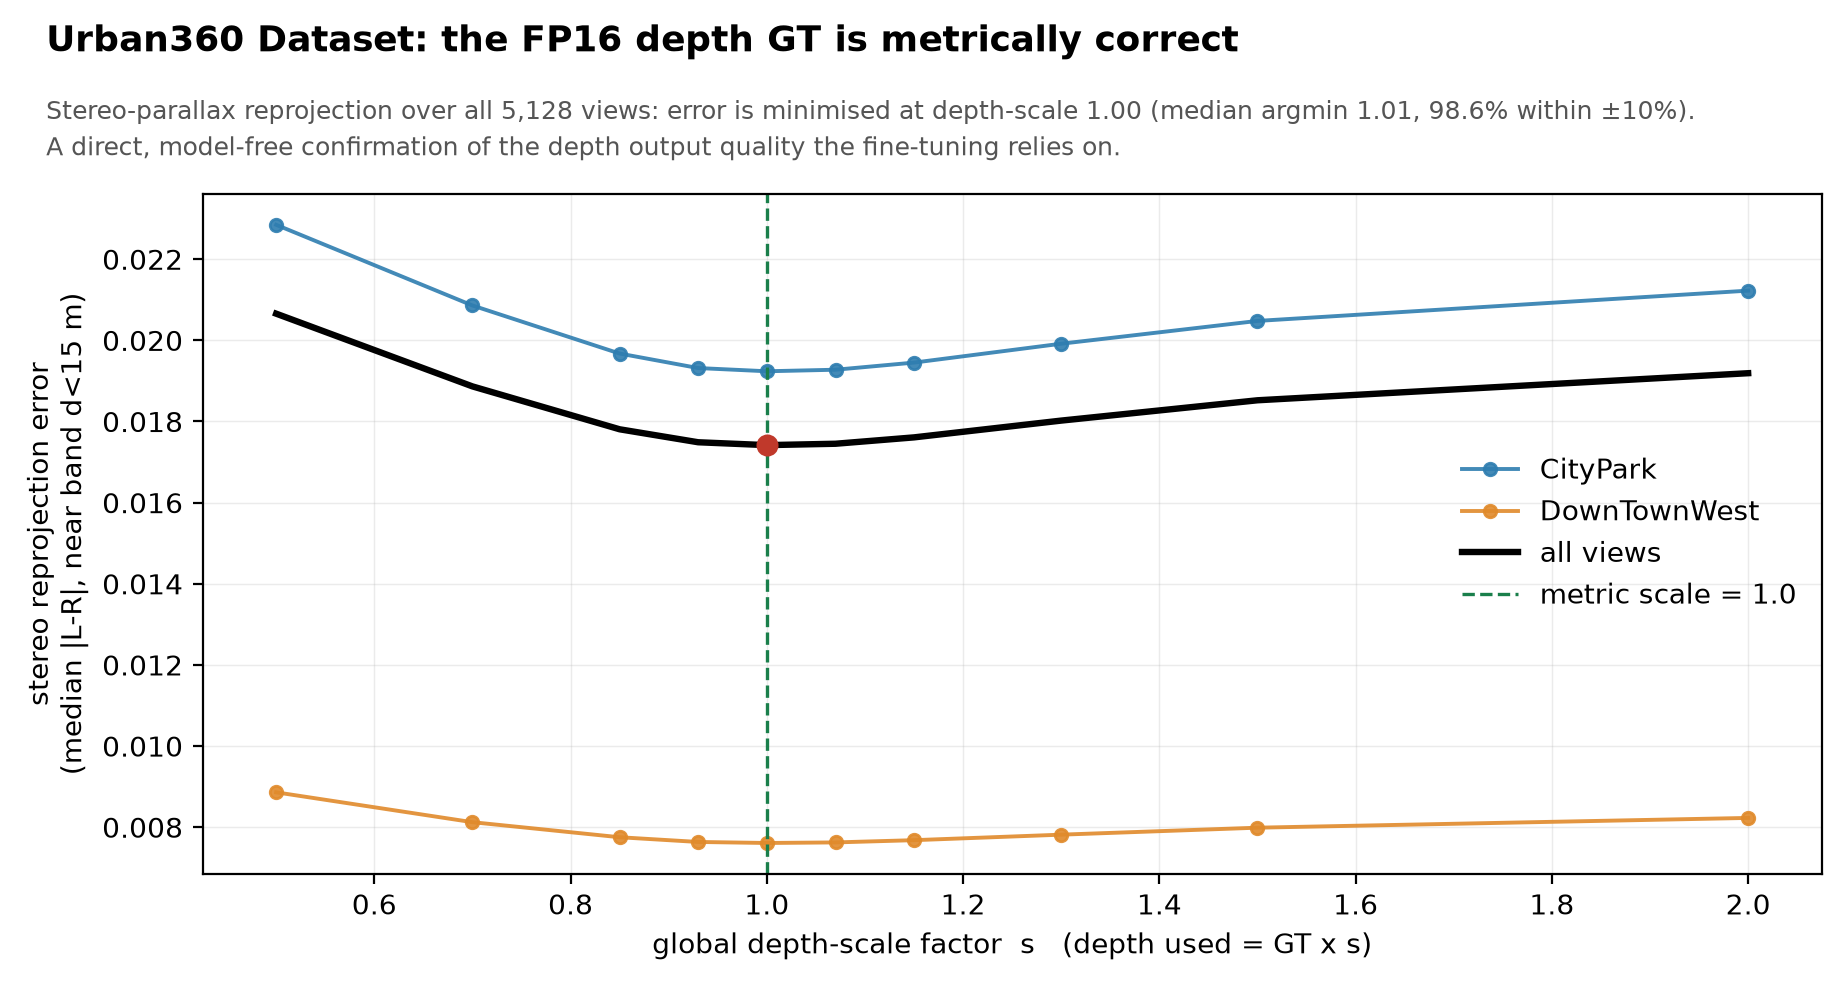
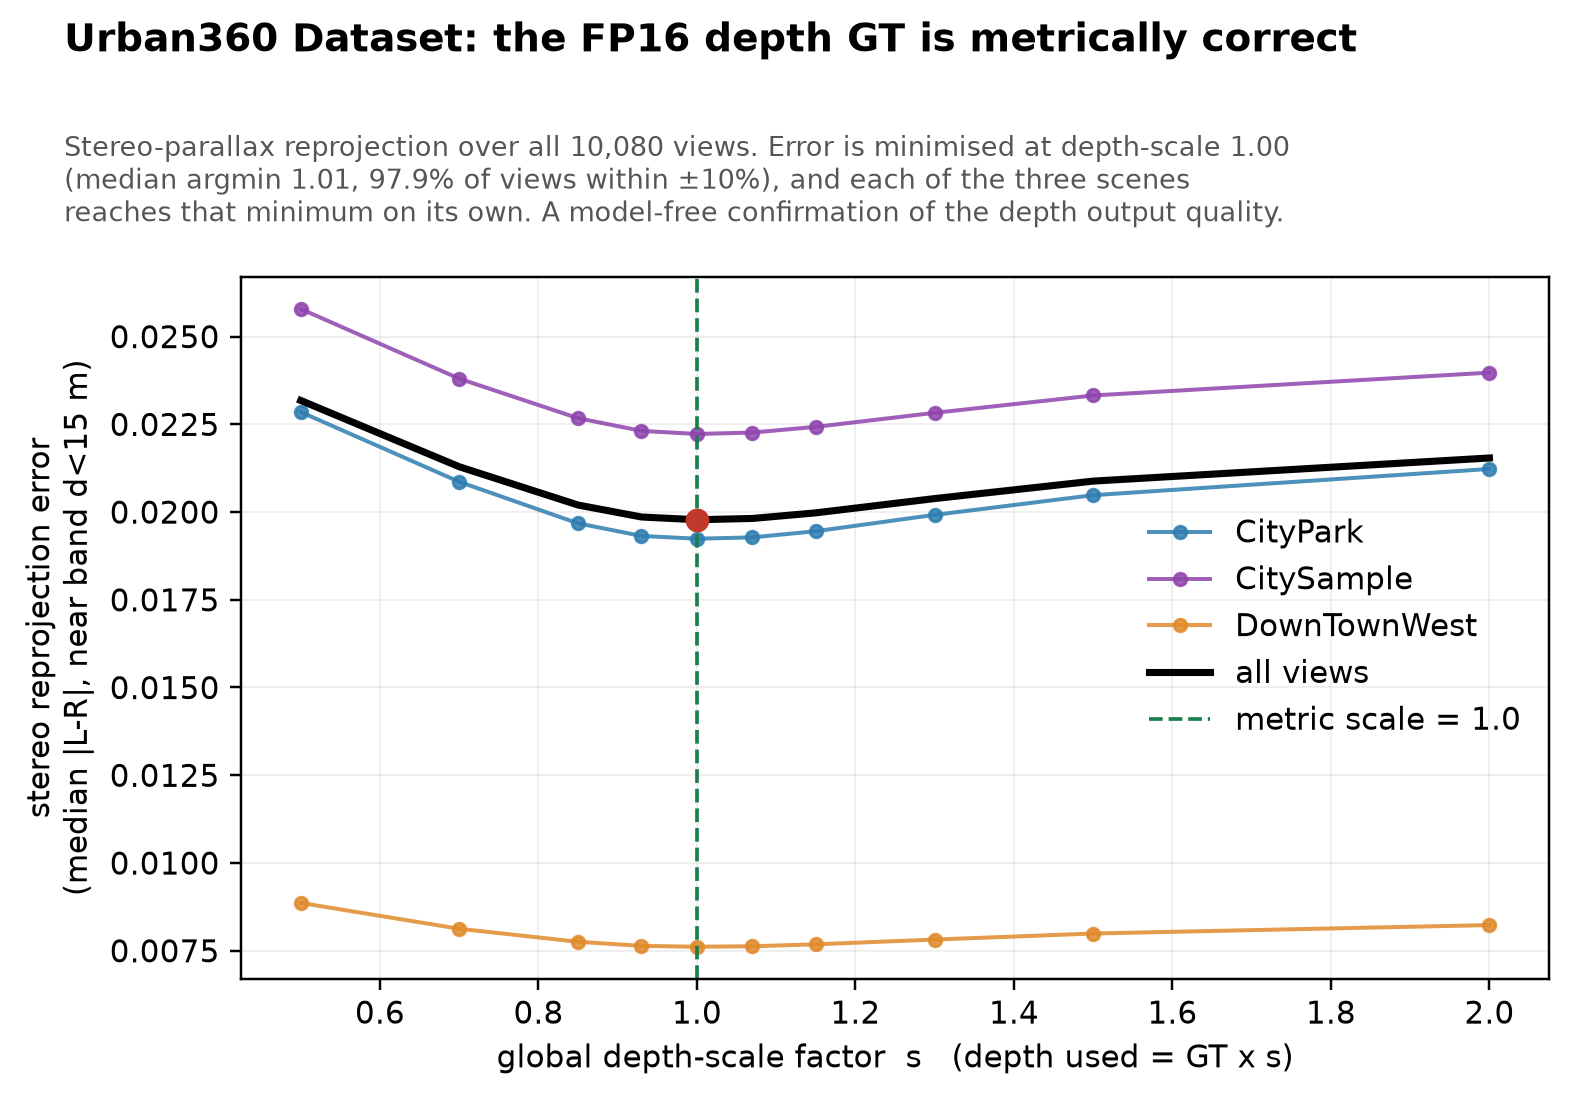
Fix mobile layout and update geometric validation to the full release
The documentation pages carried no media queries at all. On a 375px screen
the fixed 300px sidebar left 75px for the content, and body overflow:hidden
blocked the page scroll, so the text could not be reached. On mobile the
sidebar now stacks above the content and the page scrolls as one document,
with the sidebar-highlight observer rooted on the viewport instead of the
main column. Code blocks scroll and tables wrap rather than overflowing.

The supplementary validation was still scoped to the 5,128 views across two
scenes that were available when it was first written. Release-time QA covers
all 10,080 nodes, each of the three scenes reaches the depth-scale minimum at
1.00 independently, and the contract gate reports zero violations, so the
figure, the body text and the caption now report that instead.

diff --git a/documentation_support.html b/documentation_support.html
@@ -147,6 +147,36 @@
     .nav-buttons { display: flex; justify-content: flex-start; margin-top: 30px; margin-bottom: 20px; }
     .nav-btn { background: #f3f6f6; border: 1px solid #e1e4e5; padding: 10px 20px; color: #2980B9; text-decoration: none; border-radius: 3px; font-weight: bold; }
     .nav-btn:hover { background: #e1e4e5; }
+    /* Overflow guards (all widths) */
+    pre { overflow-x: auto; }
+    img { max-width: 100%; height: auto; }
+
+    /* Mobile: the sidebar stacks above the content and the page scrolls as one
+       document, instead of the sidebar taking 300px of a 375px screen */
+    @media (max-width: 768px) {
+      body { display: block; height: auto; overflow: visible; }
+      .rtd-sidebar { width: 100%; }
+      .rtd-sidebar-header { padding: 14px; }
+      .rtd-sidebar-header a { font-size: 1.2em; }
+      .rtd-sidebar-nav { padding: 10px 0; }
+      .rtd-sidebar-nav a { padding: 8px 20px 8px 24px; }
+      .rtd-main { overflow: visible; }
+      .rtd-main-header { padding: 10px 16px; flex-wrap: wrap; gap: 4px 14px; justify-content: flex-start; }
+      .rtd-content-wrapper { padding: 20px 16px; }
+      h1 { font-size: 1.75em; }
+      h2 { font-size: 1.35em; }
+      p, li { font-size: 1em; }
+      /* Fixed layout wraps the cells instead of pushing the table off-screen,
+         so nothing is hidden behind a horizontal scroll the reader has to find. */
+      table { table-layout: fixed; overflow-wrap: break-word; }
+      th, td { padding: 8px 6px; font-size: 0.92em; }
+      th:first-child, td:first-child { width: 30%; }
+      th:nth-child(2), td:nth-child(2) { width: 24%; }
+      .section-block { margin-bottom: 40px; }
+      .nav-buttons { flex-wrap: wrap; gap: 10px; }
+      .nav-btn { padding: 10px 14px; }
+    }
+
   </style>
 </head>
 <body>
@@ -230,8 +260,25 @@
           <p>Recent updates to the Urban360 documentation and project landing page.</p>
           
           <div style="border-left: 3px solid #2980B9; padding-left: 15px; margin-bottom: 25px;">
-            <h4 style="margin-bottom: 5px; color: #2980B9;">September 2, 2026</h4>
+            <h4 style="margin-bottom: 5px; color: #2980B9;">September 4, 2026</h4>
             <ul style="margin-top: 0; padding-left: 20px;">
+              <li><strong>Documentation:</strong> Fixed the mobile layout. The sidebar now stacks above the content and the page scrolls as a single document, and wide tables and code blocks no longer overflow the screen.</li>
+              <li><strong>Landing Page:</strong> Updated the geometric validation to cover the full release: 10,080 views across all three scenes, replacing the earlier 5,128 views across two.</li>
+              <li><strong>Landing Page:</strong> Published the site at hanaru.github.io/urban360.</li>
+            </ul>
+          </div>
+
+          <div style="border-left: 3px solid #999; padding-left: 15px; margin-bottom: 25px;">
+            <h4 style="margin-bottom: 5px; color: #666;">September 3, 2026</h4>
+            <ul style="margin-top: 0; padding-left: 20px; color: #555;">
+              <li><strong>Documentation:</strong> Confirmed the distribution format. The plugin ships as a compiled binary (<code>Urban360.zip</code>) with no build step, so Blueprint-only projects are supported and the source is not published.</li>
+              <li><strong>Documentation:</strong> Added three editor screenshots supplied by the authors, covering the Dataset Generator panel, the Plugins browser and the Project Settings page.</li>
+            </ul>
+          </div>
+
+          <div style="border-left: 3px solid #999; padding-left: 15px; margin-bottom: 25px;">
+            <h4 style="margin-bottom: 5px; color: #666;">September 2, 2026</h4>
+            <ul style="margin-top: 0; padding-left: 20px; color: #555;">
               <li><strong>Documentation:</strong> Updated configuration parameters and exact EXR output specifications based on actual plugin inspection.</li>
               <li><strong>Documentation:</strong> Corrected linear-light color information and clarified semantic feature status.</li>
               <li><strong>Landing Page:</strong> Added high-resolution qualitative comparisons (Fig 1, 2, 3) and stereo reprojection error validation.</li>
@@ -293,6 +340,11 @@
       const navLinks = document.querySelectorAll('.rtd-sidebar-nav a');
       const mainContent = document.getElementById('main-content');
 
+      // On mobile the page scrolls as one document, so the observer roots on the
+      // viewport instead of the main column and the sidebar is left where it is.
+      const onMobile = window.matchMedia('(max-width: 768px)').matches;
+      const scrollBox = onMobile ? document.scrollingElement : mainContent;
+
       const observer = new IntersectionObserver((entries) => {
         entries.forEach(entry => {
           if(entry.isIntersecting) {
@@ -300,25 +352,25 @@
               link.classList.remove('active');
               if(link.getAttribute('href').endsWith('#' + entry.target.id)) {
                 link.classList.add('active');
-                link.scrollIntoView({ behavior: 'smooth', block: 'nearest' });
+                if (!onMobile) link.scrollIntoView({ behavior: 'smooth', block: 'nearest' });
               }
             });
           }
         });
-      }, { root: mainContent, rootMargin: "-10% 0px -70% 0px", threshold: 0 });
+      }, { root: onMobile ? null : mainContent, rootMargin: "-10% 0px -70% 0px", threshold: 0 });
 
       sections.forEach(section => observer.observe(section));
 
       // Fallback: highlight the last section when scrolled to the absolute bottom
-      mainContent.addEventListener('scroll', () => {
-        if (mainContent.scrollHeight - mainContent.scrollTop <= mainContent.clientHeight + 5) {
+      (onMobile ? window : mainContent).addEventListener('scroll', () => {
+        if (scrollBox.scrollHeight - scrollBox.scrollTop <= scrollBox.clientHeight + 5) {
           const lastSection = sections[sections.length - 1];
           if (lastSection) {
             navLinks.forEach(link => {
               link.classList.remove('active');
               if(link.getAttribute('href').endsWith('#' + lastSection.id)) {
                 link.classList.add('active');
-                link.scrollIntoView({ behavior: 'smooth', block: 'nearest' });
+                if (!onMobile) link.scrollIntoView({ behavior: 'smooth', block: 'nearest' });
               }
             });
           }

diff --git a/index.html b/index.html
@@ -36,6 +36,28 @@
       box-shadow: 0 4px 6px rgba(0,0,0,0.3); transition: background-color 0.3s;
     }
     #backToTopBtn:hover { background-color: #555; }
+    /* Inset figures: narrowed on desktop, full width on a phone where 80% of a
+       375px screen leaves the axis labels unreadable. */
+    .figure-inset { margin: 0 auto; }
+    .figure-inset-90 { max-width: 90%; }
+    .figure-inset-80 { max-width: 80%; }
+
+    /* Mobile: the comparison tables are wider than a phone screen and scroll
+       sideways inside their container, which is easy to miss without a note. */
+    @media (max-width: 768px) {
+      table { font-size: 0.85em; }
+      th, td { padding: 0.4em; }
+      .table-container::after {
+        content: "Scroll the table sideways to see every column.";
+        display: block;
+        margin-top: 6px;
+        font-size: 0.8rem;
+        color: #7a7a7a;
+      }
+      .figure-inset-90, .figure-inset-80 { max-width: 100%; }
+      #backToTopBtn { bottom: 16px; right: 16px; padding: 10px 14px; }
+    }
+
   </style>
 </head>
 <body>
@@ -220,7 +242,7 @@
             </p>
             
             <div class="has-text-centered mt-5">
-               <div style="max-width: 90%; margin: 0 auto;">
+               <div class="figure-inset figure-inset-90">
                  <img src="assets/stitching_ssr_lumen.png" alt="Two equirectangular crops of a lakeside scene, one rendered with screen-space reflection and one with Lumen front-layer tracing, above a Fourier spectrum of the water surface in which the peak at the slice frequency is lower for Lumen" style="width:100%;">
                  <p class="is-size-6 has-text-grey mt-2">Screen-space reflection (top) versus Lumen front-layer tracing (middle) on a water surface. The two crops look identical, but in the Fourier spectrum of the water the peak at the slice frequency (period = <em>W</em>/24) falls to 0.64&times; of the screen-space level: a traced reflection no longer depends on which slice the pixel came from.</p>
                </div>
@@ -447,12 +469,12 @@
         <h2 class="title is-3 has-text-centered">Supplementary: Geometric Validation</h2>
         <div class="content">
           <p>
-            To directly validate the "FP16 geometric GT" claim independently of downstream models, we perform stereo reprojection sweeping a global depth scale <em>s</em>. If the exported depth correctly represents absolute metric distance, reprojection error must be minimized exactly at <em>s</em> = 1.0. Across 5,128 views (CityPark + DownTownWest), the optimal scale strictly aligns at <strong>1.00</strong> (median argmin 1.01).
+            To directly validate the "FP16 geometric GT" claim independently of downstream models, we perform stereo reprojection sweeping a global depth scale <em>s</em>. If the exported depth correctly represents absolute metric distance, reprojection error must be minimized exactly at <em>s</em> = 1.0. Across all <strong>10,080 views</strong> of the release, the optimal scale aligns at <strong>1.00</strong> (median argmin 1.010, with 97.9% of views inside &plusmn;10%), and each of the three scenes reaches that minimum on its own rather than only in aggregate. A separate contract gate over the same 10,080 nodes reports zero violations.
           </p>
           <div class="has-text-centered mt-4">
-            <div style="max-width: 80%; margin: 0 auto;">
-              <img src="assets/stereo_validation.png" alt="Stereo reprojection error as a function of a global depth scale, minimized at a scale of 1.0" style="width:100%;">
-              <p class="is-size-6 has-text-grey mt-2">Global depth scale validation (Note: evaluation performed on 2 of the 3 scenes).</p>
+            <div class="figure-inset figure-inset-80">
+              <img src="assets/stereo_validation.png" alt="Stereo reprojection error as a function of a global depth scale, minimized at a scale of 1.0 for each of the three scenes and for all views combined" style="width:100%;">
+              <p class="is-size-6 has-text-grey mt-2">Global depth scale validation over the full release: 10,080 views across all three scenes.</p>
             </div>
           </div>
         </div>

diff --git a/documentation_reference.html b/documentation_reference.html
@@ -147,6 +147,36 @@
     .nav-buttons { display: flex; justify-content: flex-start; margin-top: 30px; margin-bottom: 20px; }
     .nav-btn { background: #f3f6f6; border: 1px solid #e1e4e5; padding: 10px 20px; color: #2980B9; text-decoration: none; border-radius: 3px; font-weight: bold; }
     .nav-btn:hover { background: #e1e4e5; }
+    /* Overflow guards (all widths) */
+    pre { overflow-x: auto; }
+    img { max-width: 100%; height: auto; }
+
+    /* Mobile: the sidebar stacks above the content and the page scrolls as one
+       document, instead of the sidebar taking 300px of a 375px screen */
+    @media (max-width: 768px) {
+      body { display: block; height: auto; overflow: visible; }
+      .rtd-sidebar { width: 100%; }
+      .rtd-sidebar-header { padding: 14px; }
+      .rtd-sidebar-header a { font-size: 1.2em; }
+      .rtd-sidebar-nav { padding: 10px 0; }
+      .rtd-sidebar-nav a { padding: 8px 20px 8px 24px; }
+      .rtd-main { overflow: visible; }
+      .rtd-main-header { padding: 10px 16px; flex-wrap: wrap; gap: 4px 14px; justify-content: flex-start; }
+      .rtd-content-wrapper { padding: 20px 16px; }
+      h1 { font-size: 1.75em; }
+      h2 { font-size: 1.35em; }
+      p, li { font-size: 1em; }
+      /* Fixed layout wraps the cells instead of pushing the table off-screen,
+         so nothing is hidden behind a horizontal scroll the reader has to find. */
+      table { table-layout: fixed; overflow-wrap: break-word; }
+      th, td { padding: 8px 6px; font-size: 0.92em; }
+      th:first-child, td:first-child { width: 30%; }
+      th:nth-child(2), td:nth-child(2) { width: 24%; }
+      .section-block { margin-bottom: 40px; }
+      .nav-buttons { flex-wrap: wrap; gap: 10px; }
+      .nav-btn { padding: 10px 14px; }
+    }
+
   </style>
 </head>
 <body>
@@ -300,6 +330,11 @@
       const navLinks = document.querySelectorAll('.rtd-sidebar-nav a');
       const mainContent = document.getElementById('main-content');
 
+      // On mobile the page scrolls as one document, so the observer roots on the
+      // viewport instead of the main column and the sidebar is left where it is.
+      const onMobile = window.matchMedia('(max-width: 768px)').matches;
+      const scrollBox = onMobile ? document.scrollingElement : mainContent;
+
       const observer = new IntersectionObserver((entries) => {
         entries.forEach(entry => {
           if(entry.isIntersecting) {
@@ -307,25 +342,25 @@
               link.classList.remove('active');
               if(link.getAttribute('href').endsWith('#' + entry.target.id)) {
                 link.classList.add('active');
-                link.scrollIntoView({ behavior: 'smooth', block: 'nearest' });
+                if (!onMobile) link.scrollIntoView({ behavior: 'smooth', block: 'nearest' });
               }
             });
           }
         });
-      }, { root: mainContent, rootMargin: "-10% 0px -70% 0px", threshold: 0 });
+      }, { root: onMobile ? null : mainContent, rootMargin: "-10% 0px -70% 0px", threshold: 0 });
 
       sections.forEach(section => observer.observe(section));
 
       // Fallback: highlight the last section when scrolled to the absolute bottom
-      mainContent.addEventListener('scroll', () => {
-        if (mainContent.scrollHeight - mainContent.scrollTop <= mainContent.clientHeight + 5) {
+      (onMobile ? window : mainContent).addEventListener('scroll', () => {
+        if (scrollBox.scrollHeight - scrollBox.scrollTop <= scrollBox.clientHeight + 5) {
           const lastSection = sections[sections.length - 1];
           if (lastSection) {
             navLinks.forEach(link => {
               link.classList.remove('active');
               if(link.getAttribute('href').endsWith('#' + lastSection.id)) {
                 link.classList.add('active');
-                link.scrollIntoView({ behavior: 'smooth', block: 'nearest' });
+                if (!onMobile) link.scrollIntoView({ behavior: 'smooth', block: 'nearest' });
               }
             });
           }

diff --git a/documentation.html b/documentation.html
@@ -147,6 +147,36 @@
     .nav-buttons { display: flex; justify-content: flex-end; margin-top: 30px; margin-bottom: 20px; }
     .nav-btn { background: #f3f6f6; border: 1px solid #e1e4e5; padding: 10px 20px; color: #2980B9; text-decoration: none; border-radius: 3px; font-weight: bold; }
     .nav-btn:hover { background: #e1e4e5; }
+    /* Overflow guards (all widths) */
+    pre { overflow-x: auto; }
+    img { max-width: 100%; height: auto; }
+
+    /* Mobile: the sidebar stacks above the content and the page scrolls as one
+       document, instead of the sidebar taking 300px of a 375px screen */
+    @media (max-width: 768px) {
+      body { display: block; height: auto; overflow: visible; }
+      .rtd-sidebar { width: 100%; }
+      .rtd-sidebar-header { padding: 14px; }
+      .rtd-sidebar-header a { font-size: 1.2em; }
+      .rtd-sidebar-nav { padding: 10px 0; }
+      .rtd-sidebar-nav a { padding: 8px 20px 8px 24px; }
+      .rtd-main { overflow: visible; }
+      .rtd-main-header { padding: 10px 16px; flex-wrap: wrap; gap: 4px 14px; justify-content: flex-start; }
+      .rtd-content-wrapper { padding: 20px 16px; }
+      h1 { font-size: 1.75em; }
+      h2 { font-size: 1.35em; }
+      p, li { font-size: 1em; }
+      /* Fixed layout wraps the cells instead of pushing the table off-screen,
+         so nothing is hidden behind a horizontal scroll the reader has to find. */
+      table { table-layout: fixed; overflow-wrap: break-word; }
+      th, td { padding: 8px 6px; font-size: 0.92em; }
+      th:first-child, td:first-child { width: 30%; }
+      th:nth-child(2), td:nth-child(2) { width: 24%; }
+      .section-block { margin-bottom: 40px; }
+      .nav-buttons { flex-wrap: wrap; gap: 10px; }
+      .nav-btn { padding: 10px 14px; }
+    }
+
   </style>
 </head>
 <body>
@@ -265,6 +295,11 @@
       const navLinks = document.querySelectorAll('.rtd-sidebar-nav a');
       const mainContent = document.getElementById('main-content');
 
+      // On mobile the page scrolls as one document, so the observer roots on the
+      // viewport instead of the main column and the sidebar is left where it is.
+      const onMobile = window.matchMedia('(max-width: 768px)').matches;
+      const scrollBox = onMobile ? document.scrollingElement : mainContent;
+
       const observer = new IntersectionObserver((entries) => {
         entries.forEach(entry => {
           if(entry.isIntersecting) {
@@ -272,25 +307,25 @@
               link.classList.remove('active');
               if(link.getAttribute('href').endsWith('#' + entry.target.id)) {
                 link.classList.add('active');
-                link.scrollIntoView({ behavior: 'smooth', block: 'nearest' });
+                if (!onMobile) link.scrollIntoView({ behavior: 'smooth', block: 'nearest' });
               }
             });
           }
         });
-      }, { root: mainContent, rootMargin: "-10% 0px -70% 0px", threshold: 0 });
+      }, { root: onMobile ? null : mainContent, rootMargin: "-10% 0px -70% 0px", threshold: 0 });
 
       sections.forEach(section => observer.observe(section));
 
       // Fallback: highlight the last section when scrolled to the absolute bottom
-      mainContent.addEventListener('scroll', () => {
-        if (mainContent.scrollHeight - mainContent.scrollTop <= mainContent.clientHeight + 5) {
+      (onMobile ? window : mainContent).addEventListener('scroll', () => {
+        if (scrollBox.scrollHeight - scrollBox.scrollTop <= scrollBox.clientHeight + 5) {
           const lastSection = sections[sections.length - 1];
           if (lastSection) {
             navLinks.forEach(link => {
               link.classList.remove('active');
               if(link.getAttribute('href').endsWith('#' + lastSection.id)) {
                 link.classList.add('active');
-                link.scrollIntoView({ behavior: 'smooth', block: 'nearest' });
+                if (!onMobile) link.scrollIntoView({ behavior: 'smooth', block: 'nearest' });
               }
             });
           }
